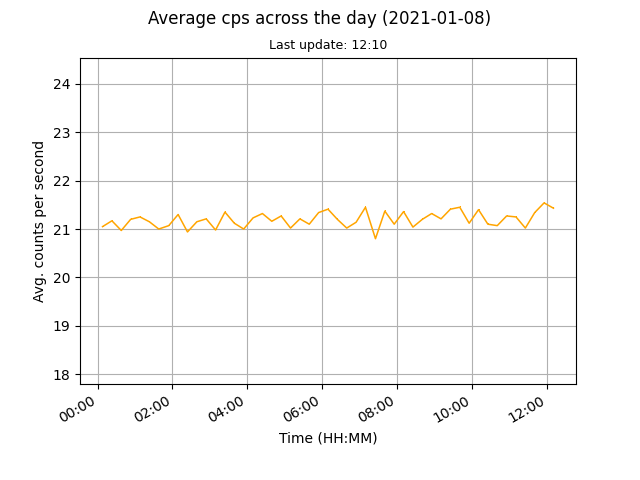
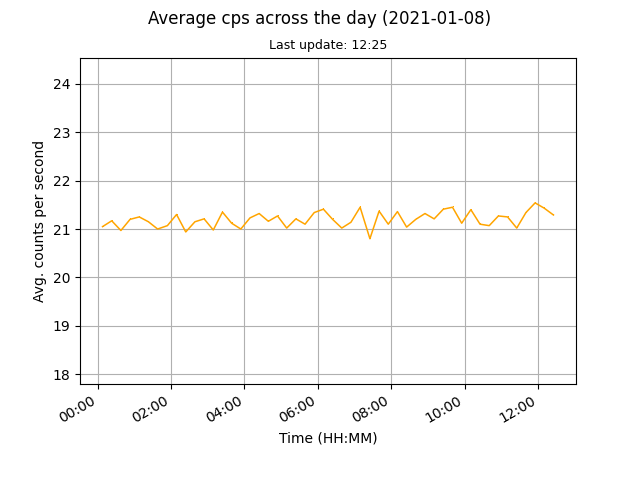
auto data update

diff --git a/docs/index.html b/docs/index.html
@@ -45,8 +45,8 @@
 	
 	<br>
 	
-	<p>Current counts per second (cps): 21.43</p>
-	<p>Last update: 2021-01-08, 12:10</p>
+	<p>Current counts per second (cps): 21.29</p>
+	<p>Last update: 2021-01-08, 12:26</p>
 
 	<p><a href="images/monthly.png"><img src="images/monthly.png" alt="Mothly avg cps data"></a><a href="images/daily.png"><img src="images/daily.png" alt="Daily avg cps data"></a></p>
 	
